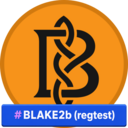
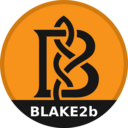
Rebrand: BLAKE2b band clipped to the coin, matching the fork family
The icon carried a full-width blue rectangle reading "#BLAKE2b
(regtest)". Two things wrong with it. The rectangle reads as a sticker
over the artwork and its square corners fight the round coin, which is
the reason the fork icons clip their band to the coin's own alpha. And
the text stopped being true when this package gained testnet4.

Now a clipped band reading BLAKE2b, from the same make-icons.sh that
produces the pre-RDTS and RDTS icons, in the same #171717 sampled from
the Knots monogram.

The convention, stated because it was implicit and easy to get wrong:
the band says which variant this is, the title says what it does. So the
two mainnet forks band pre-RDTS and RDTS while both titles end in
"Companion". Banding all of them "Companion" would leave three identical
coins whose bands distinguish nothing, and would imply mainnet for a
package that runs test chains.

Also drops "(regtest)" from the Datum Gateway references in
instructions.md, since that package now follows whichever chain this one
is on.

Changed region(s): [[0.0, 0.75, 1.0, 1.0]]

diff --git a/instructions.md b/instructions.md
@@ -51,7 +51,7 @@ rules.
 ## What to do with it
 
 On its own, this node does very little. It becomes useful when you also install
-**Datum Gateway BLAKE2b (regtest)**, which turns its block templates into work your
+**Datum Gateway BLAKE2b**, which turns its block templates into work your
 ASIC can mine.
 
 ## Getting a payout address
